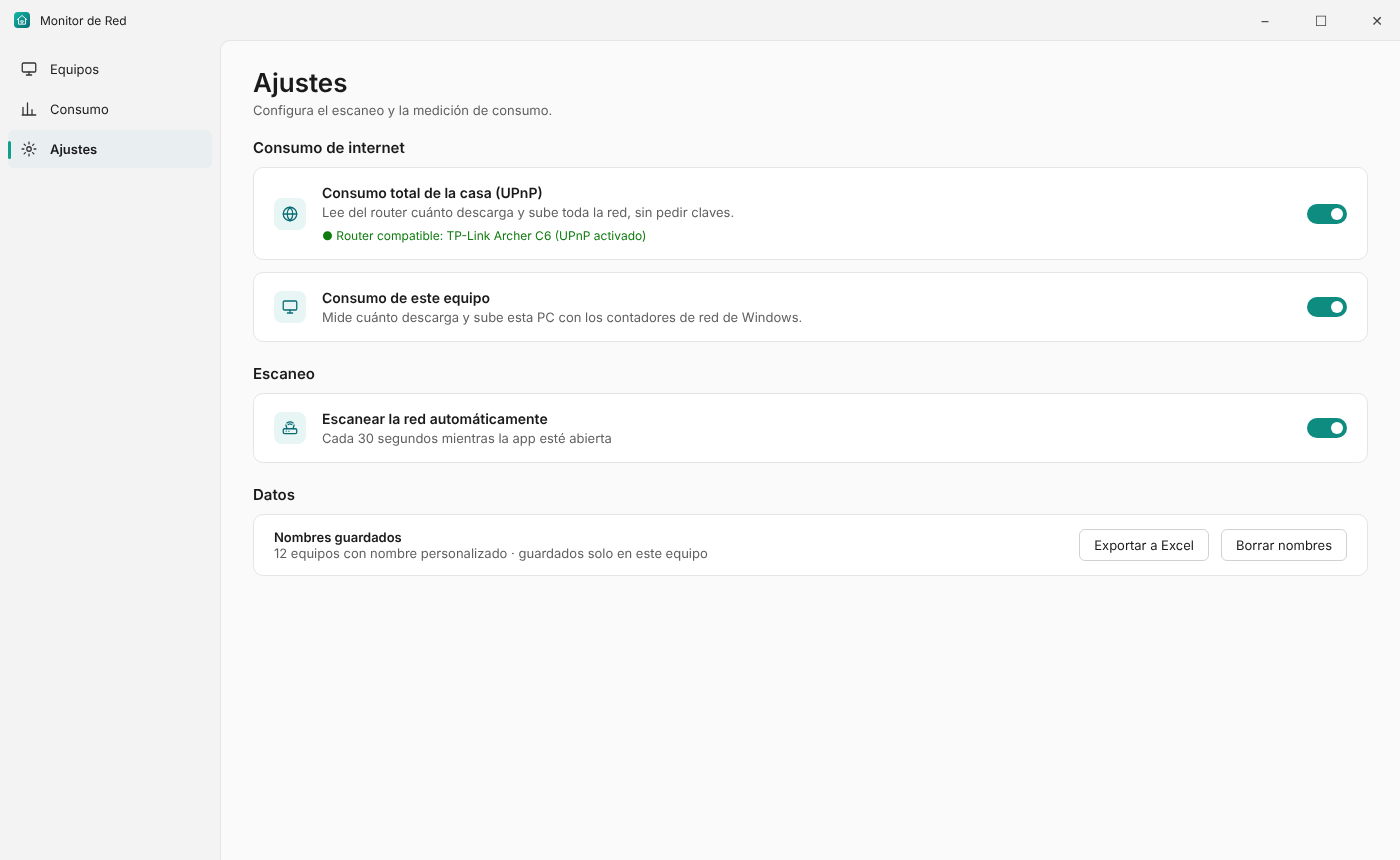
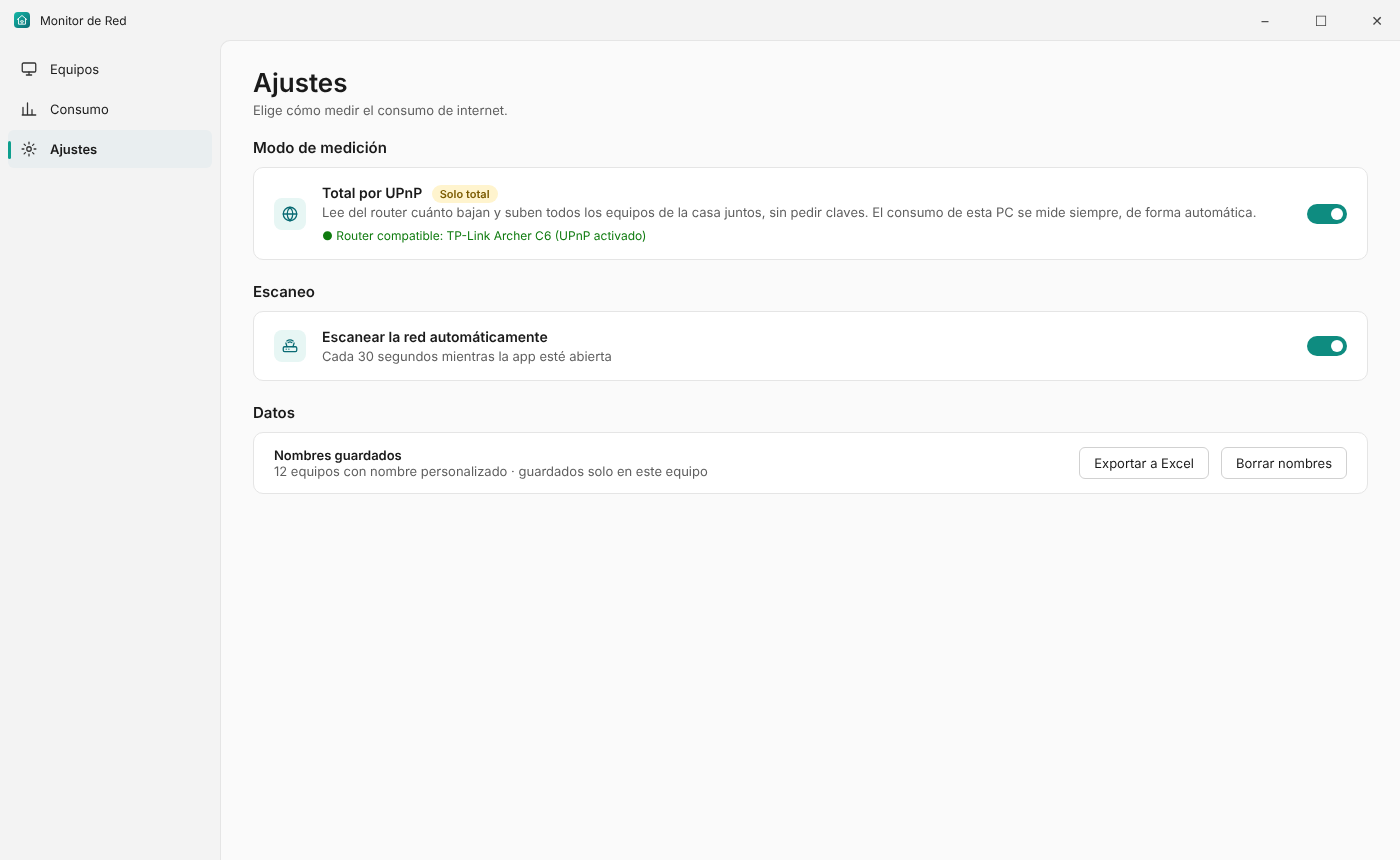
Usar en la ficha y las maquetas los nombres reales de la app
Claude-Session: https://claude.ai/code/session_01KLQaJ2sbnTYSgCnxBopoxp

diff --git a/MonitorRed/store/FICHA-TIENDA.md b/MonitorRed/store/FICHA-TIENDA.md
@@ -117,7 +117,7 @@ https://patriciogg0815.github.io/Moda/MonitorRed/store/privacidad.html
 > **Cuánto internet se está usando**
 > - **Toda la casa:** la velocidad de descarga y subida total de tu red, leída del router por UPnP,
 >   sin pedir claves.
-> - **Este equipo:** cuánto descarga y sube tu PC en este momento.
+> - **Esta PC:** cuánto descarga y sube tu computadora en este momento, de forma automática.
 >
 > **Privado y sin configuraciones**
 > - No necesitas cambiar nada en el router ni crear una cuenta.
@@ -139,7 +139,7 @@ no, quita esas frases (la Store rechaza descripciones que prometen funciones que
 - Marca los equipos nuevos para detectar intrusos
 - Nombres personalizados para cada equipo
 - Consumo total de internet de la casa por UPnP, sin claves
-- Consumo de internet de este equipo en tiempo real
+- Consumo de internet de esta PC en tiempo real, automático
 - Sin cuenta, sin publicidad y sin enviar datos a internet
 
 **Términos de búsqueda** (máximo 7)
